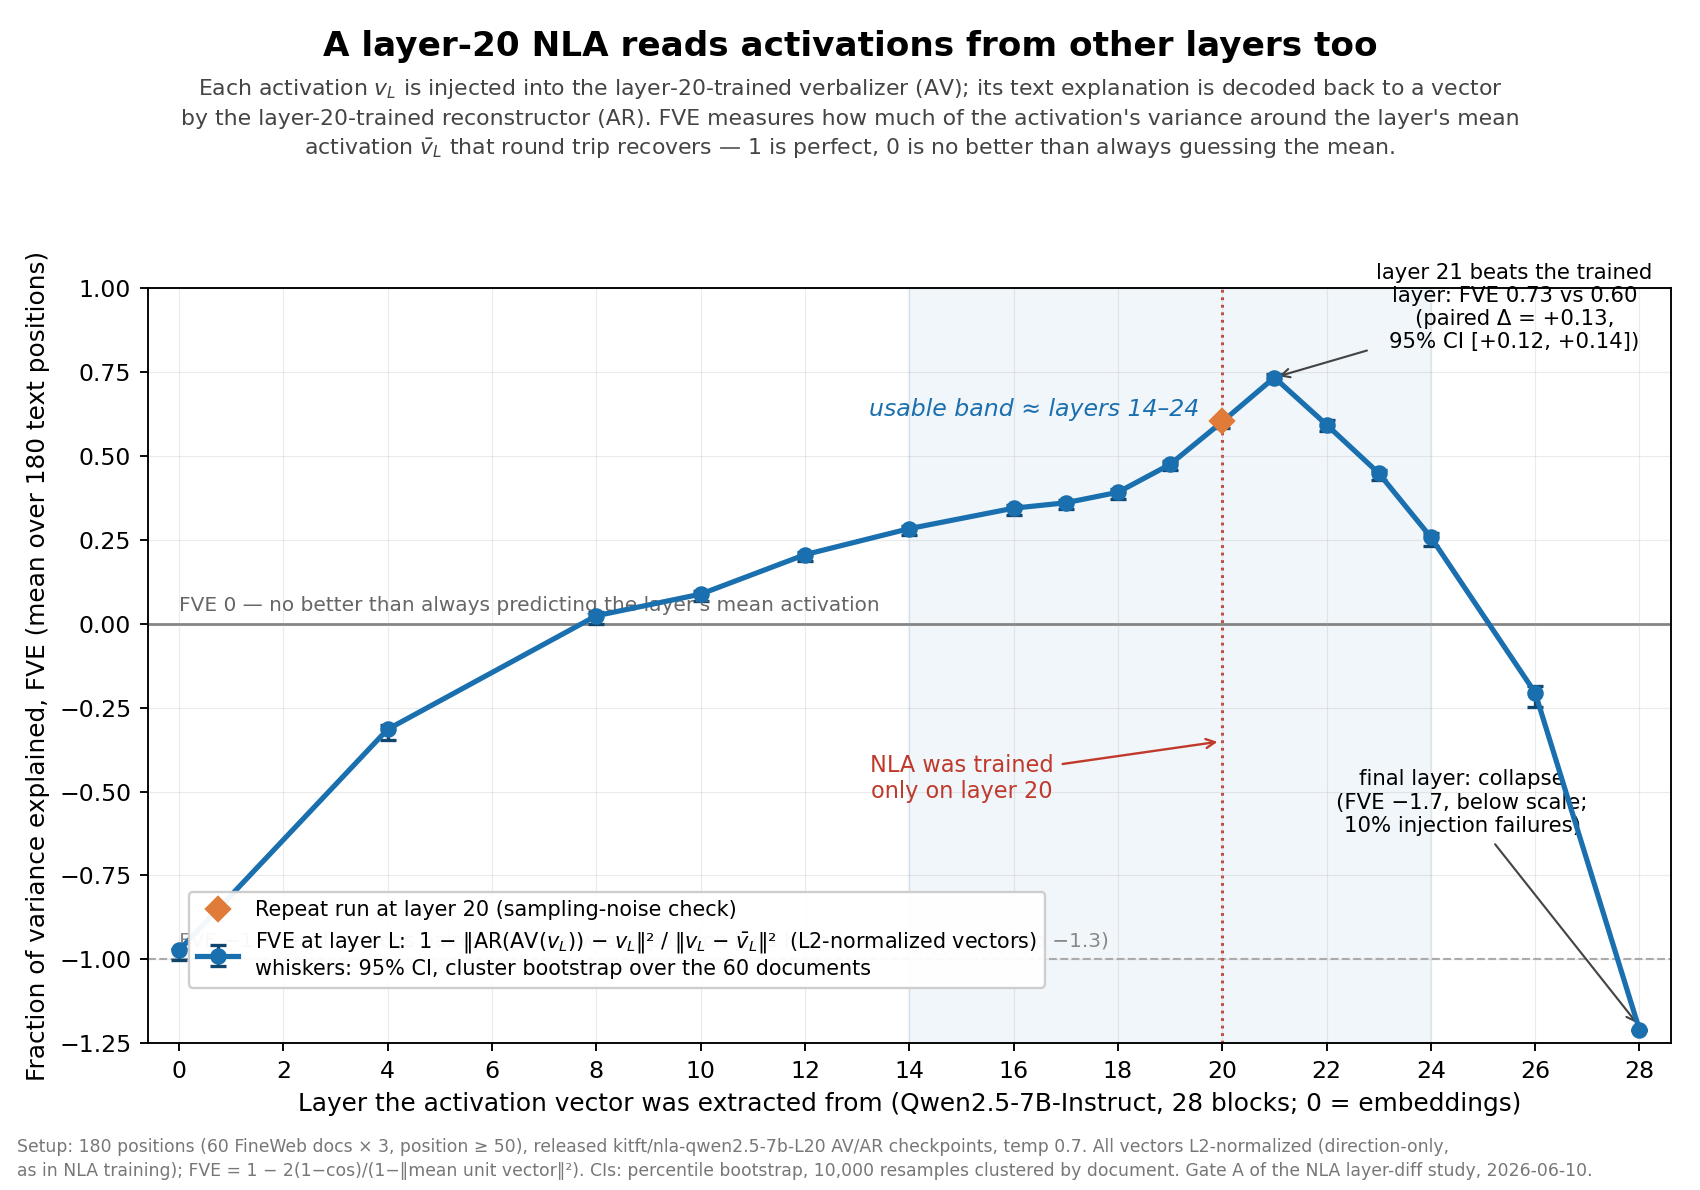
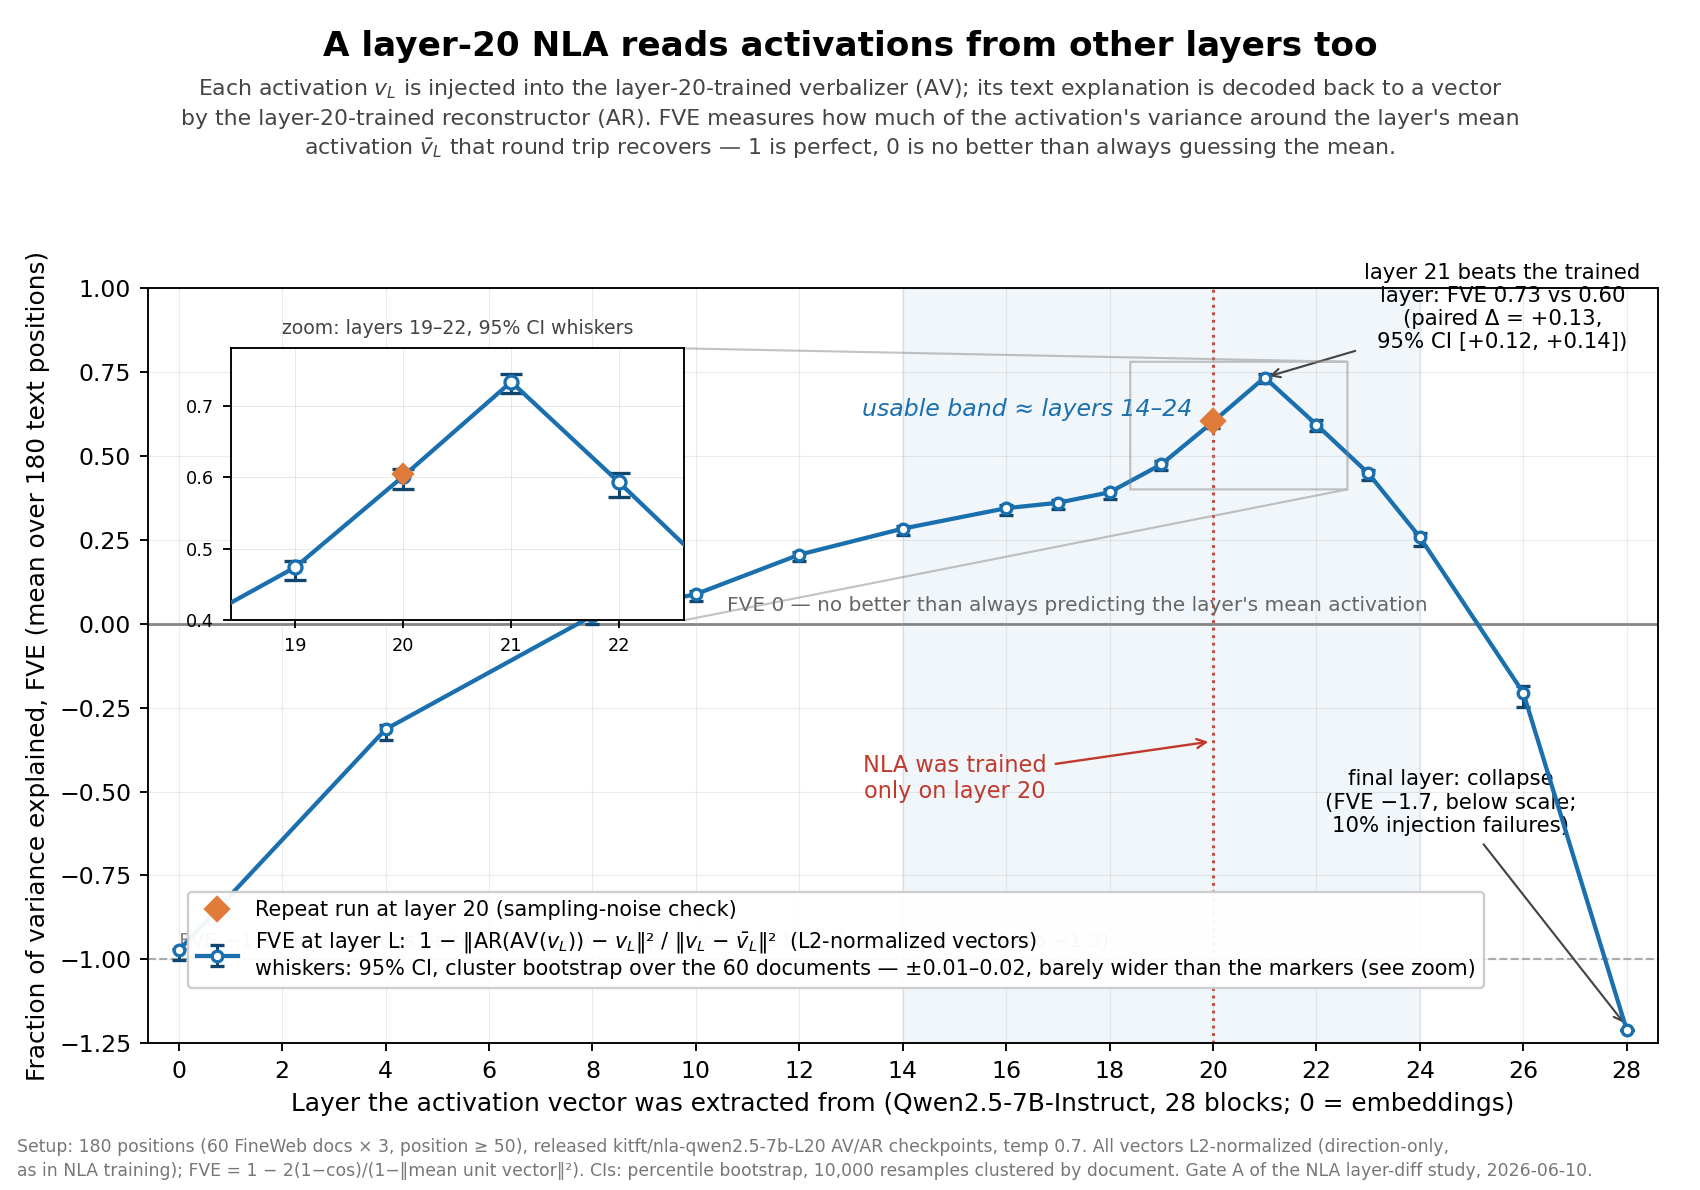
📊 Gate A graph: zoom inset so the CI whiskers are actually visible
The 95% CIs (±0.01-0.02) are narrower than the markers at full scale;
open markers + a layers-19-22 inset make the whiskers resolvable
without exaggerating them.

diff --git a/experiments/gate_a/plot_fve.py b/experiments/gate_a/plot_fve.py
@@ -25,11 +25,26 @@ fig, ax = plt.subplots(figsize=(10, 7.0))
 if has_ci:
     yerr = [[clip(e["fve_nrm"]) - clip(e["fve_ci95"][0]) for e in rows],
             [clip(e["fve_ci95"][1]) - clip(e["fve_nrm"]) for e in rows]]
-    ax.errorbar(layers, [clip(v) for v in fve], yerr=yerr, fmt="o-", color="#1a6faf",
-                lw=2.2, ms=6, zorder=3, ecolor="#10456e", elinewidth=1.4,
-                capsize=3.5, capthick=1.4,
+    eb_kw = dict(fmt="o-", color="#1a6faf", lw=1.8, ms=4.5, mfc="white", mew=1.4,
+                 zorder=3, ecolor="#10456e", elinewidth=1.3, capsize=3.0, capthick=1.3)
+    ax.errorbar(layers, [clip(v) for v in fve], yerr=yerr,
                 label="FVE at layer L:  1 − ‖AR(AV($v_L$)) − $v_L$‖² / ‖$v_L$ − $\\bar{v}_L$‖²  (L2-normalized vectors)\n"
-                      "whiskers: 95% CI, cluster bootstrap over the 60 documents")
+                      "whiskers: 95% CI, cluster bootstrap over the 60 documents — "
+                      "±0.01–0.02, barely wider than the markers (see zoom)",
+                **eb_kw)
+    # zoom inset around the peak, where the whiskers are resolvable
+    axins = ax.inset_axes([0.055, 0.56, 0.30, 0.36])
+    axins.errorbar(layers, fve, yerr=[[e["fve_nrm"] - e["fve_ci95"][0] for e in rows],
+                                      [e["fve_ci95"][1] - e["fve_nrm"] for e in rows]],
+                   **{**eb_kw, "ms": 5.5, "capsize": 4.5})
+    axins.plot([20], [rep], "D", color="#e07b39", ms=6, zorder=4)
+    axins.set_xlim(18.4, 22.6)
+    axins.set_ylim(0.40, 0.78)
+    axins.set_xticks([19, 20, 21, 22])
+    axins.tick_params(labelsize=7.5)
+    axins.grid(alpha=0.3, lw=0.4)
+    axins.set_title("zoom: layers 19–22, 95% CI whiskers", fontsize=8, color="#444444")
+    ax.indicate_inset_zoom(axins, edgecolor="#888888", lw=0.9)
 else:
     ax.plot(layers, [clip(v) for v in fve], "o-", color="#1a6faf", lw=2.2, ms=6, zorder=3,
             label="FVE at layer L:  1 − ‖AR(AV($v_L$)) − $v_L$‖² / ‖$v_L$ − $\\bar{v}_L$‖²  (L2-normalized vectors)")
@@ -37,7 +52,7 @@ ax.plot([20], [rep], "D", color="#e07b39", ms=7, zorder=4,
         label="Repeat run at layer 20 (sampling-noise check)")
 
 ax.axhline(0, color="#777777", lw=1.1, zorder=1)
-ax.text(0.0, 0.025, "FVE 0 — no better than always predicting the layer's mean activation",
+ax.text(10.6, 0.025, "FVE 0 — no better than always predicting the layer's mean activation",
         fontsize=8.5, color="#666666", va="bottom")
 ax.axhline(-1, color="#aaaaaa", lw=0.9, ls="--", zorder=1)
 ax.text(0.0, -0.975, "FVE −1 — explanations paired with the wrong position land here (measured: −0.94 to −1.3)",